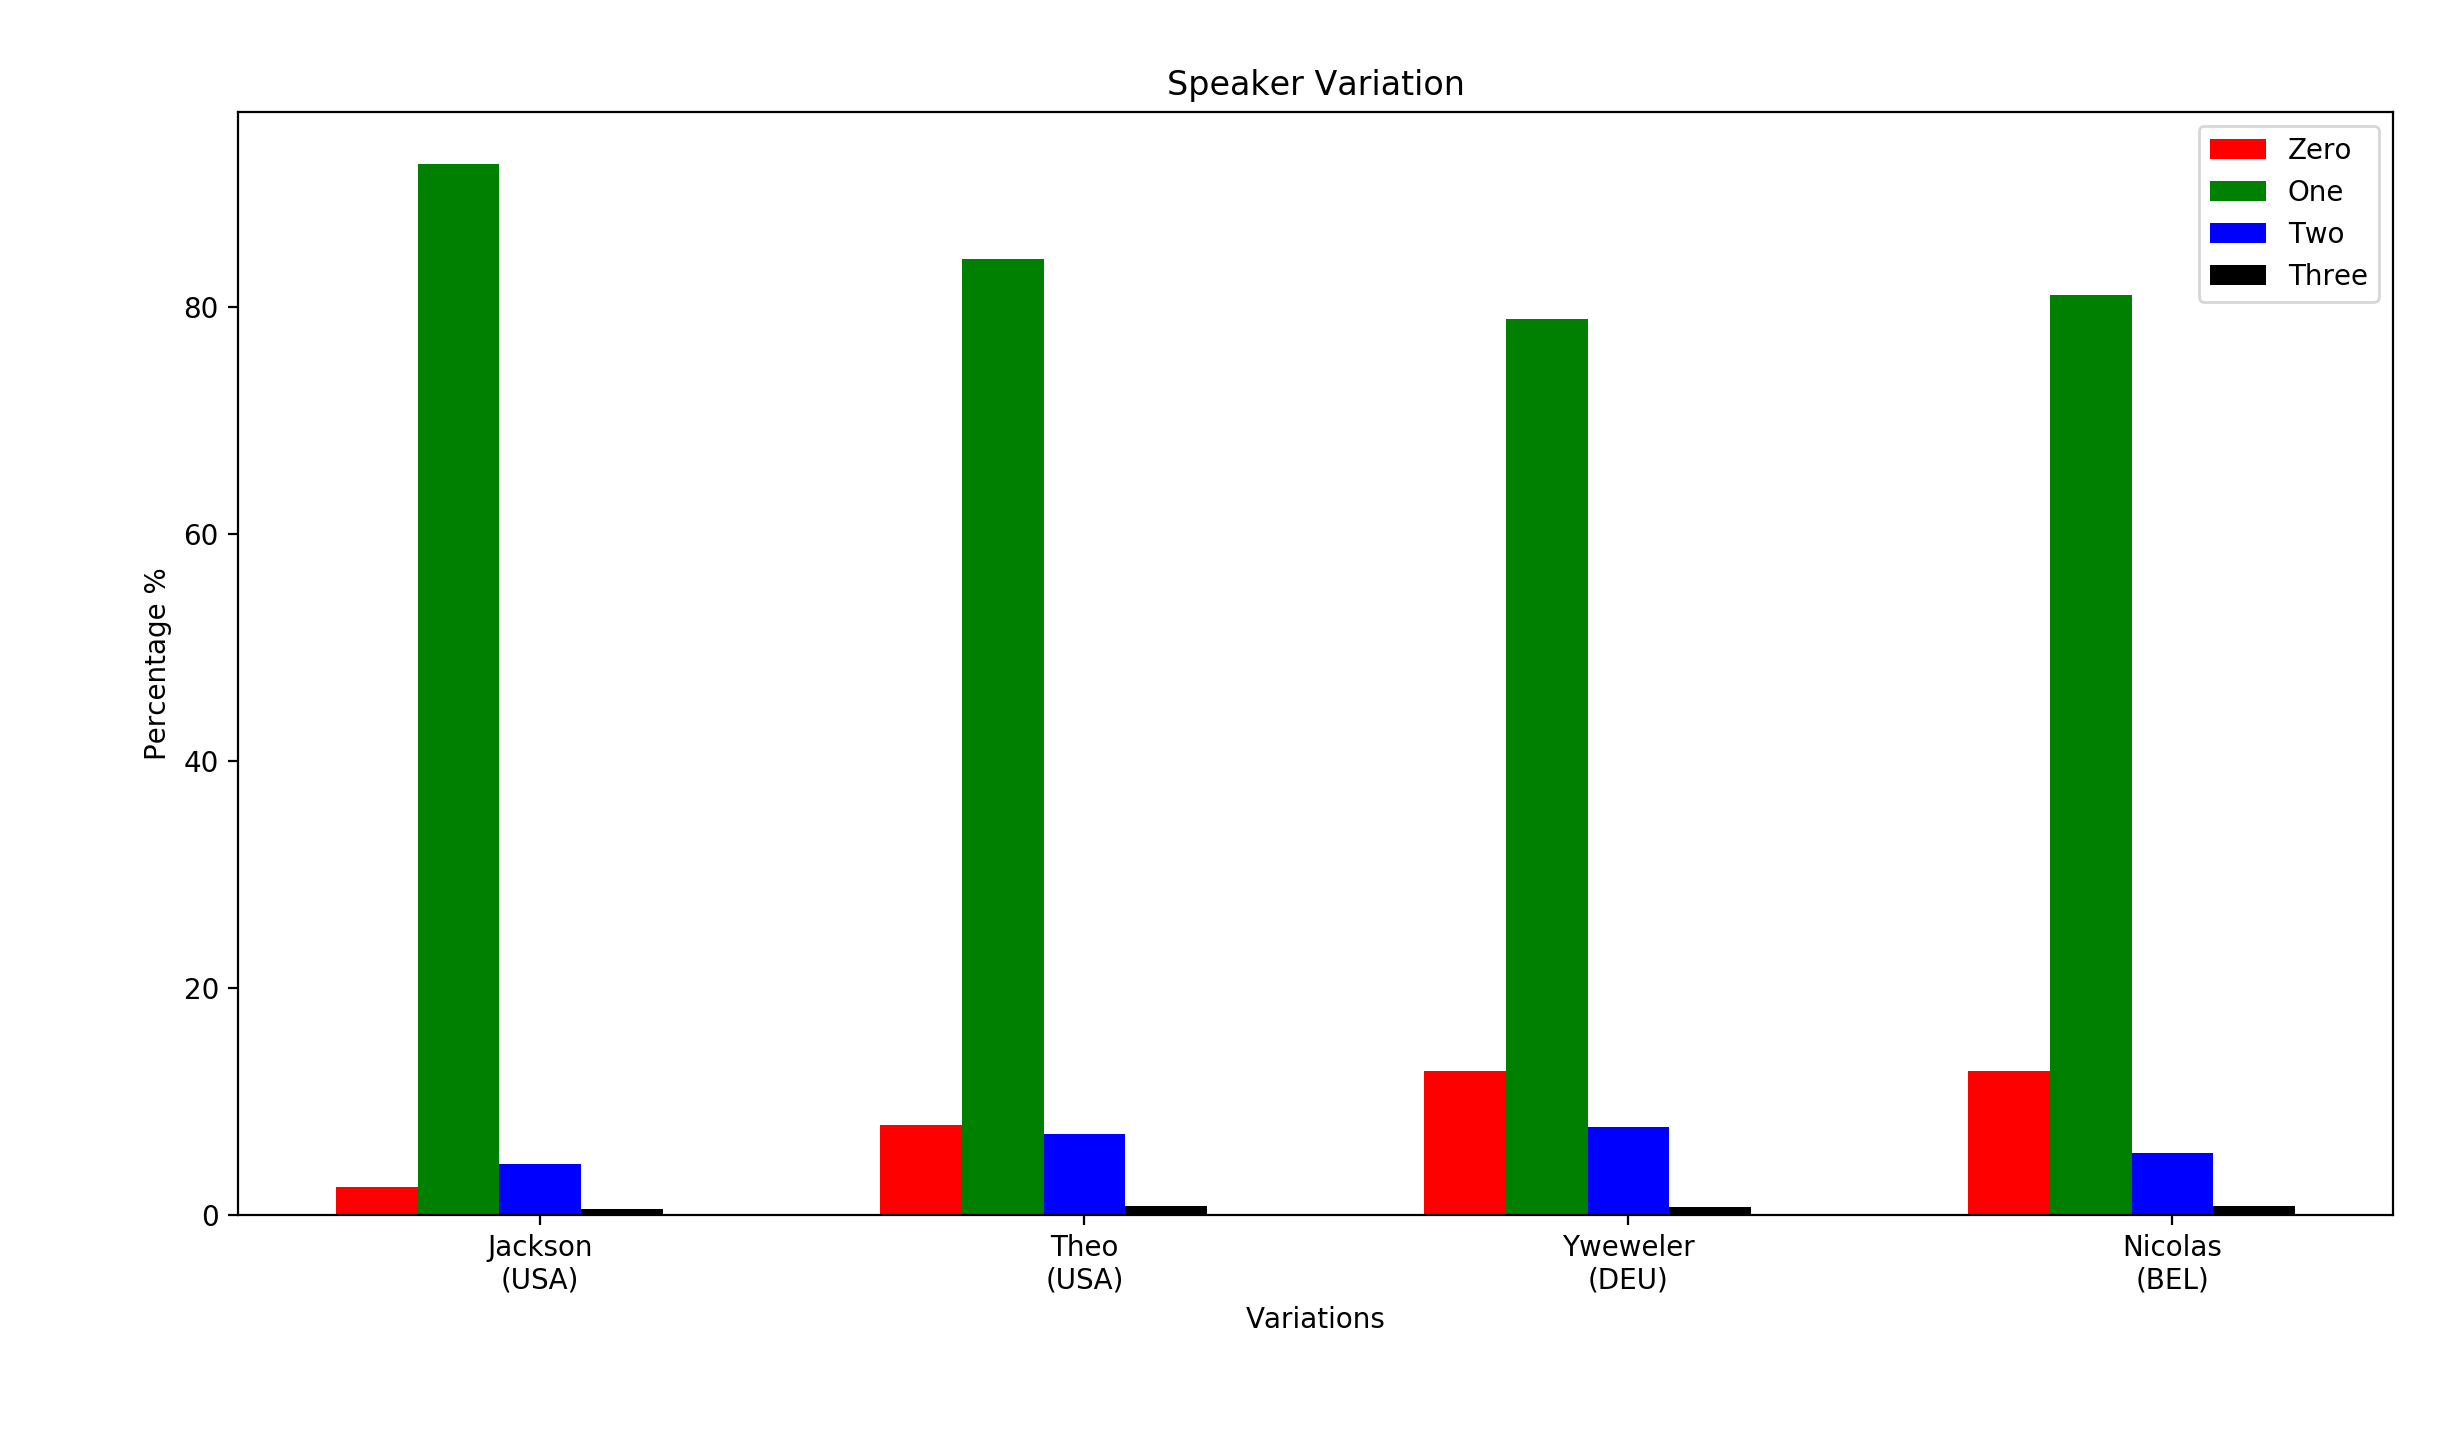
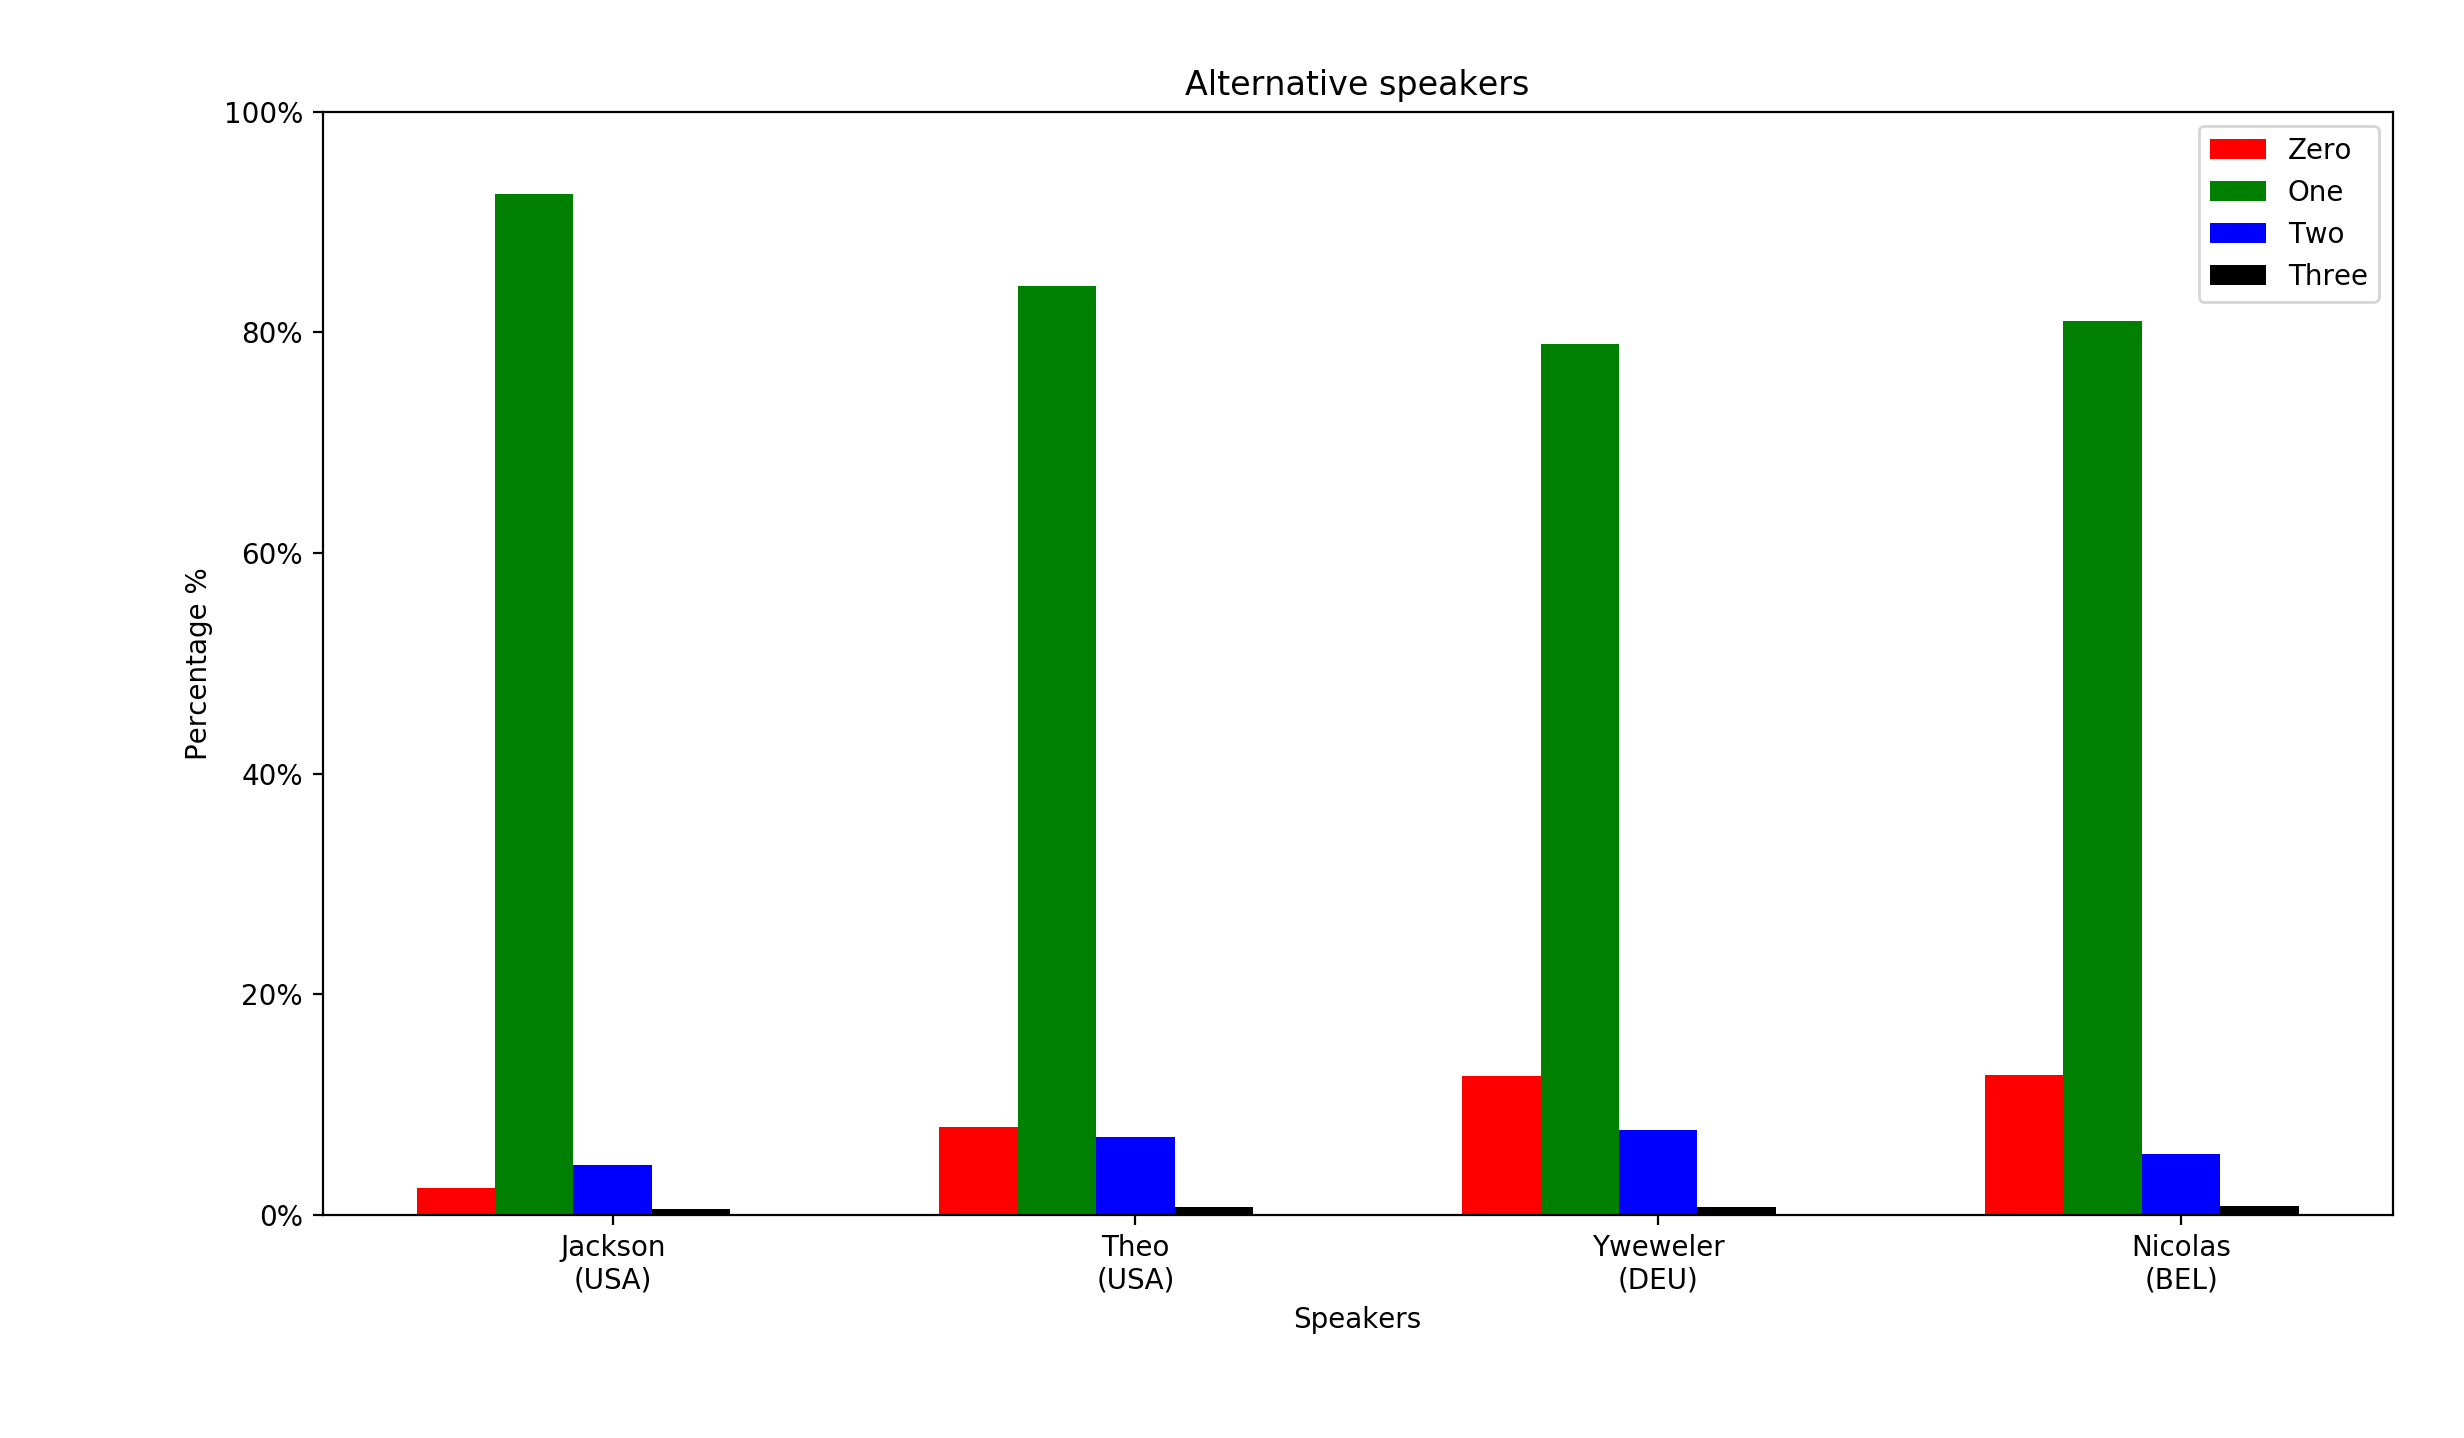
Updated graphs

diff --git a/SpeechRecognition/alternative_speakers.py b/SpeechRecognition/alternative_speakers.py
@@ -24,6 +24,7 @@
 
 import numpy as np
 import matplotlib.pyplot as plt
+import matplotlib.ticker as mtick
 import yaml
 import timeit
 import random
@@ -243,13 +244,11 @@ if __name__ == "__main__":
   ax.set_title('Alternative speakers')
   ax.set_xlabel('Speakers')
   ax.set_ylabel('Percentage %')
+  ax.set_ylim(0.0, 100.0)
+  ax.yaxis.set_major_formatter(mtick.PercentFormatter())
   ax.set_xticks(index + (bar_width * 4) / 2)
   ax.set_xticklabels(('Jackson\n(USA)', 'Theo\n(USA)', 'Yweweler\n(DEU)', 'Nicolas\n(BEL)'))
   ax.legend()
-  test_names.append(datapath + "1_jackson_1.ngm.npy")
-  test_names.append(datapath + "1_theo_1.ngm.npy")
-  test_names.append(datapath + "1_yweweler_1.ngm.npy")
-  test_names.append(datapath + "1_nicolas_1.ngm.npy")
 
   fig.tight_layout()
   plt.show()

diff --git a/SpeechRecognition/additive_noise.py b/SpeechRecognition/additive_noise.py
@@ -24,6 +24,7 @@
 
 import numpy as np
 import matplotlib.pyplot as plt
+import matplotlib.ticker as mtick
 import yaml
 import timeit
 import random
@@ -244,6 +245,8 @@ if __name__ == "__main__":
   ax.set_title('Additive Noise')
   ax.set_xlabel('Additive noise amount')
   ax.set_ylabel('Percentage %')
+  ax.set_ylim(0.0, 100.0)
+  ax.yaxis.set_major_formatter(mtick.PercentFormatter())
   ax.set_xticks(index + (bar_width * 5) / 2)
   ax.set_xticklabels(('0%', '5%', '10%', '25%', '50%'))
   ax.legend()

diff --git a/SpeechRecognition/speaker_variation.py b/SpeechRecognition/speaker_variation.py
@@ -24,6 +24,7 @@
 
 import numpy as np
 import matplotlib.pyplot as plt
+import matplotlib.ticker as mtick
 import yaml
 import timeit
 import random
@@ -243,6 +244,8 @@ if __name__ == "__main__":
   ax.set_title('Speaker Variation')
   ax.set_xlabel('Variations')
   ax.set_ylabel('Percentage %')
+  ax.set_ylim(0.0, 100.0)
+  ax.yaxis.set_major_formatter(mtick.PercentFormatter())
   ax.set_xticks(index + (bar_width * 4) / 2)
   ax.set_xticklabels(('6', '7', '8', '9'))
   ax.legend()
